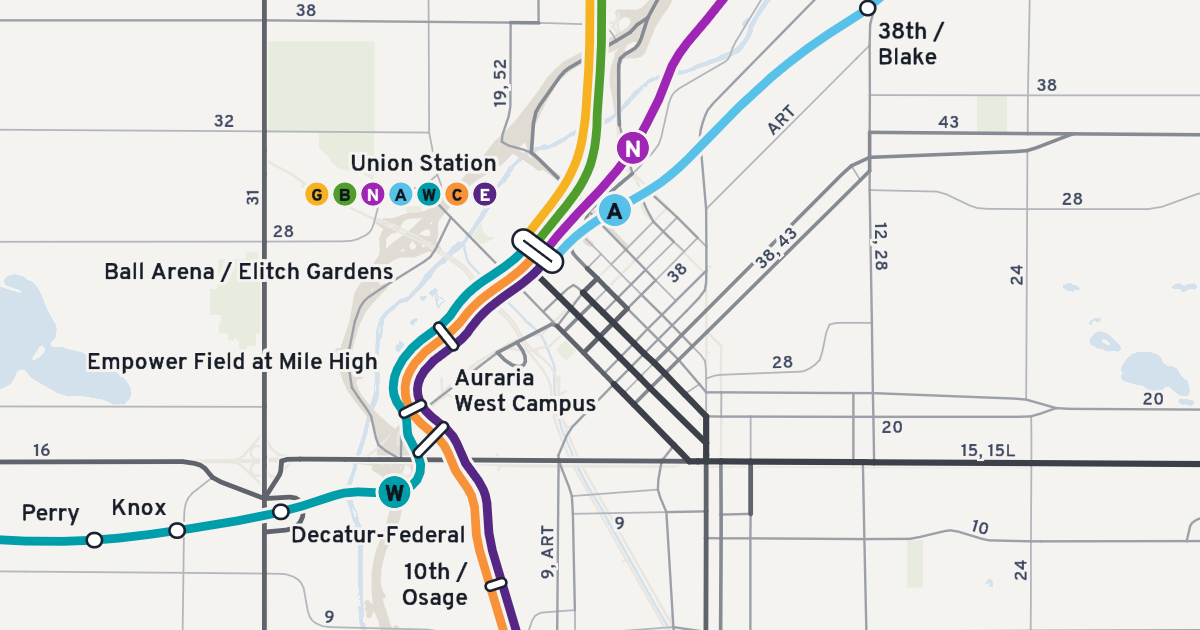
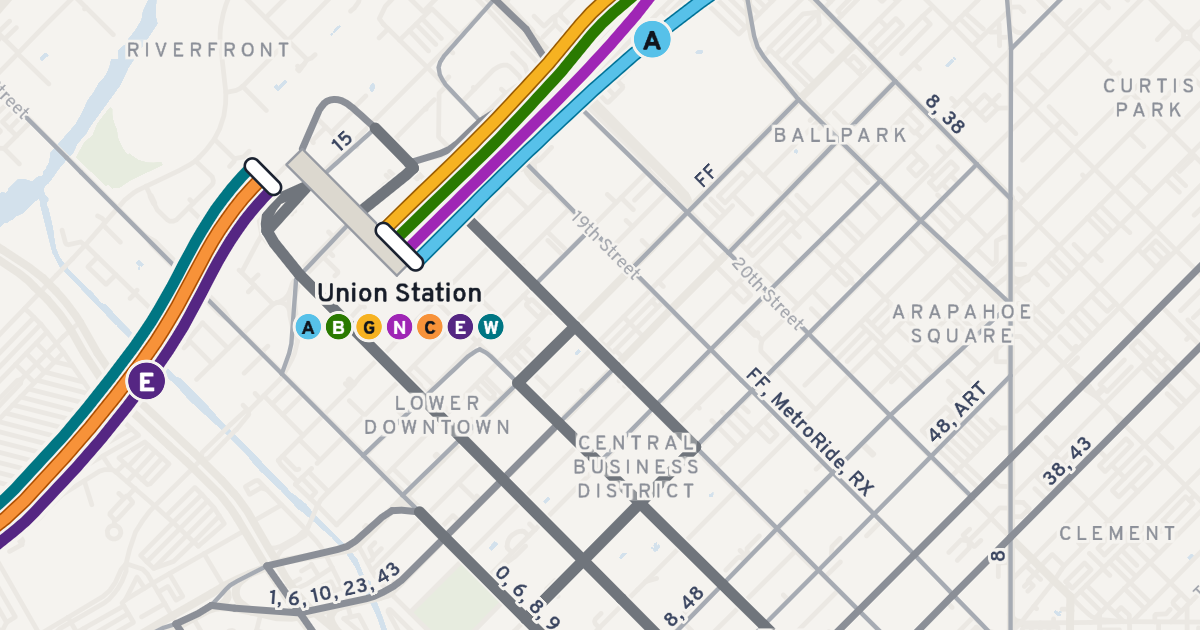
Link preview: downtown around Union Station on sheet 3
Closer in than sheet 2, so the preview shows each rail line's letter, the
bus streets' route numbers and the neighbourhood names. The image address
gets ?v=2 so services that cached the old picture fetch the new one.

diff --git a/public/index.html b/public/index.html
@@ -14,11 +14,11 @@
 <meta property="og:title" content="RTD system map">
 <meta property="og:description" content="An easy-to-read map of RTD bus and rail service in the Denver region, showing how often each route runs.">
 <meta property="og:url" content="https://rtd-system-map.pages.dev/">
-<meta property="og:image" content="https://rtd-system-map.pages.dev/og.png">
+<meta property="og:image" content="https://rtd-system-map.pages.dev/og.png?v=2">
 <meta property="og:image:type" content="image/png">
 <meta property="og:image:width" content="1200">
 <meta property="og:image:height" content="630">
-<meta property="og:image:alt" content="Map of central Denver with the colored rail lines meeting at Union Station and the bus streets beside them.">
+<meta property="og:image:alt" content="Map of downtown Denver: the colored rail lines meeting at Union Station, and bus streets labeled with their route numbers.">
 <meta name="twitter:card" content="summary_large_image">
 <script>
   // The loading picture (#poster below) is asked for first, before anything the map needs: it is

diff --git a/DESIGN.md b/DESIGN.md
@@ -2462,8 +2462,10 @@ shared or bookmarked.
 ### Link preview
 
 A link to the site shows the title "RTD system map", the page's description
-and a picture (`public/og.png`, 1200x630): central Denver on sheet 2 in the
-light theme, with the buttons and credit hidden. A link to the classic map
+and a picture (`public/og.png`, 1200x630): downtown Denver around Union
+Station on sheet 3, close enough to show each rail line's letter, the bus
+streets' route numbers and the neighbourhood names, in the light theme with
+the buttons and credit hidden. A link to the classic map
 shows its own (`public/classic/og.png`): central Denver at zoom 11 in the
 light theme, with the interface and route letters hidden.
 `node scripts/og-image.mjs` makes either again from the live site (`sheets`
@@ -4464,6 +4466,10 @@ work against the real structure before asking for evaluation.
   sheet 1 named Thornton and Niwot but not Denver, Aurora, Lakewood or
   Boulder, sheet 2 named no town at all, and sheet 3 named "Quality Hill
   Historic District" instead of Capitol Hill.
+- 2026-11-12: The front page's link preview moves in from sheet 2 to sheet
+  3 at Union Station. Reason: Chris: "do something a little zoomed in to show
+  off a little bit more detail in the preview"; sheet 2 showed the lines but
+  not the route numbers and neighbourhood names that set the map apart.
 
 ## Sources
 
